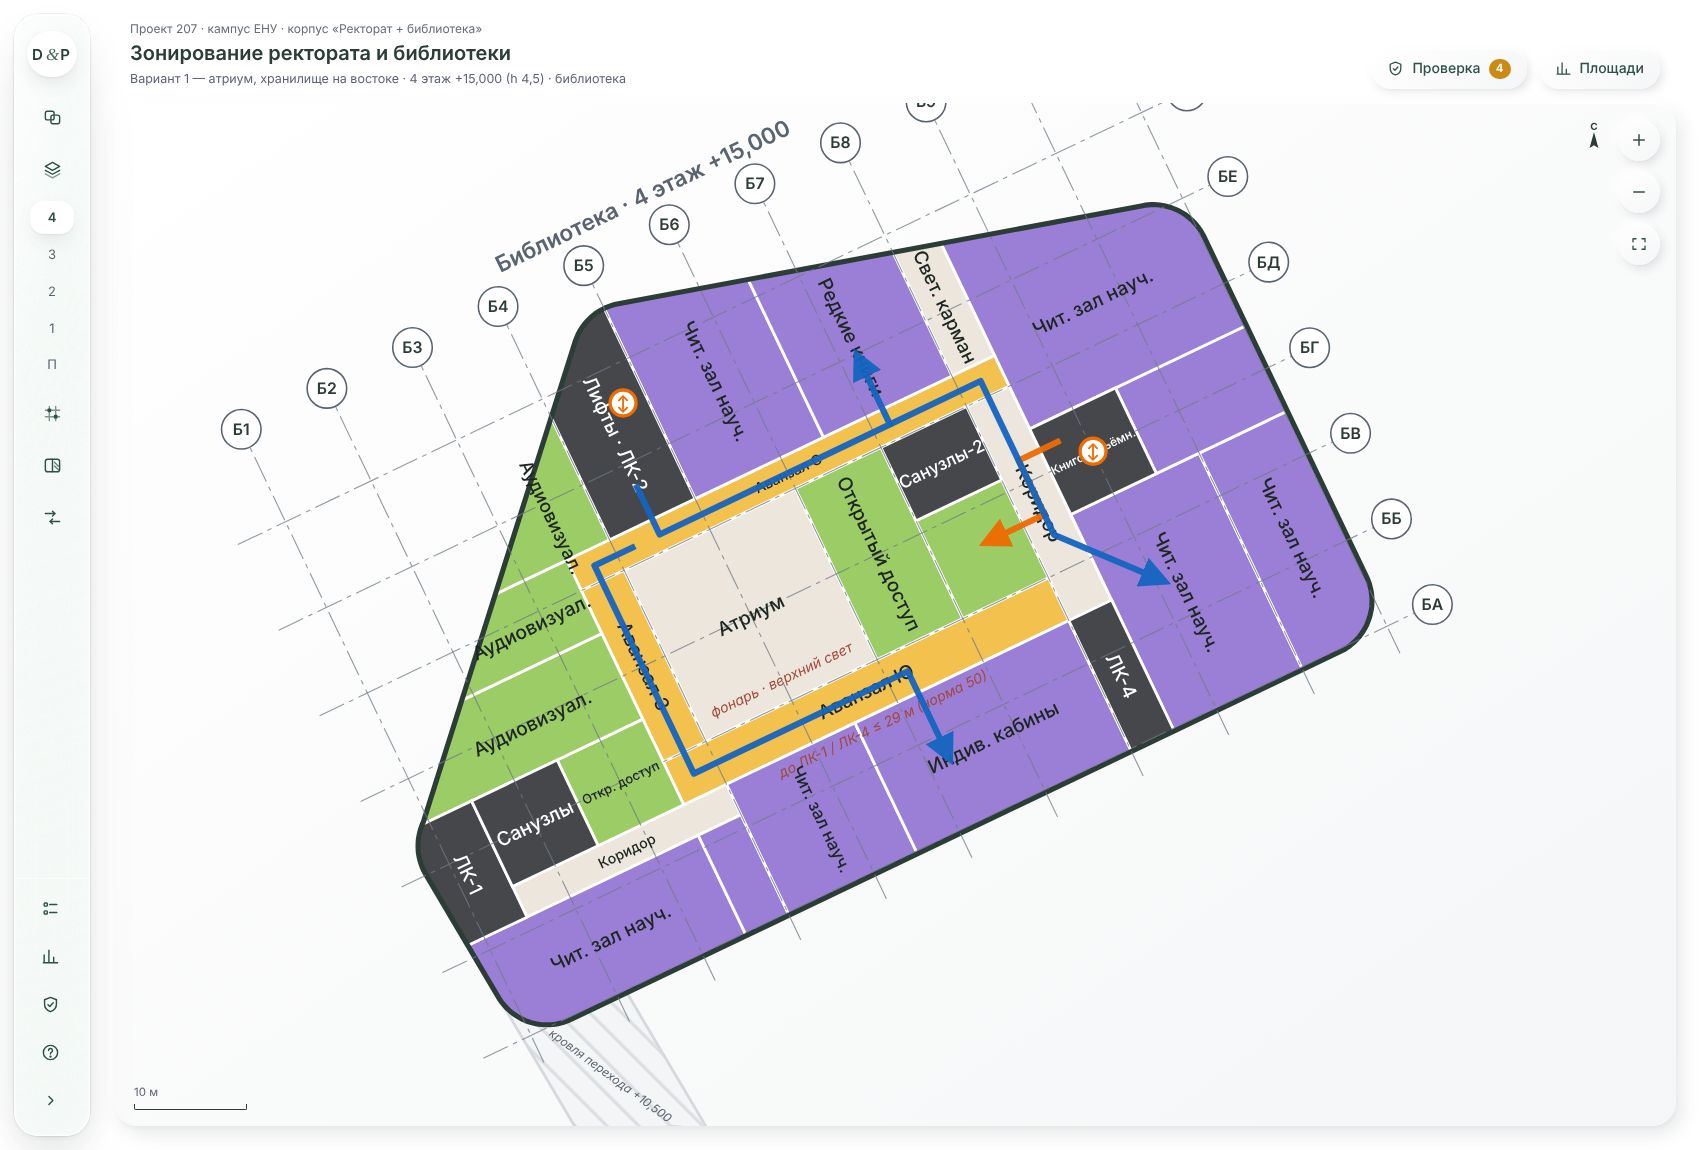
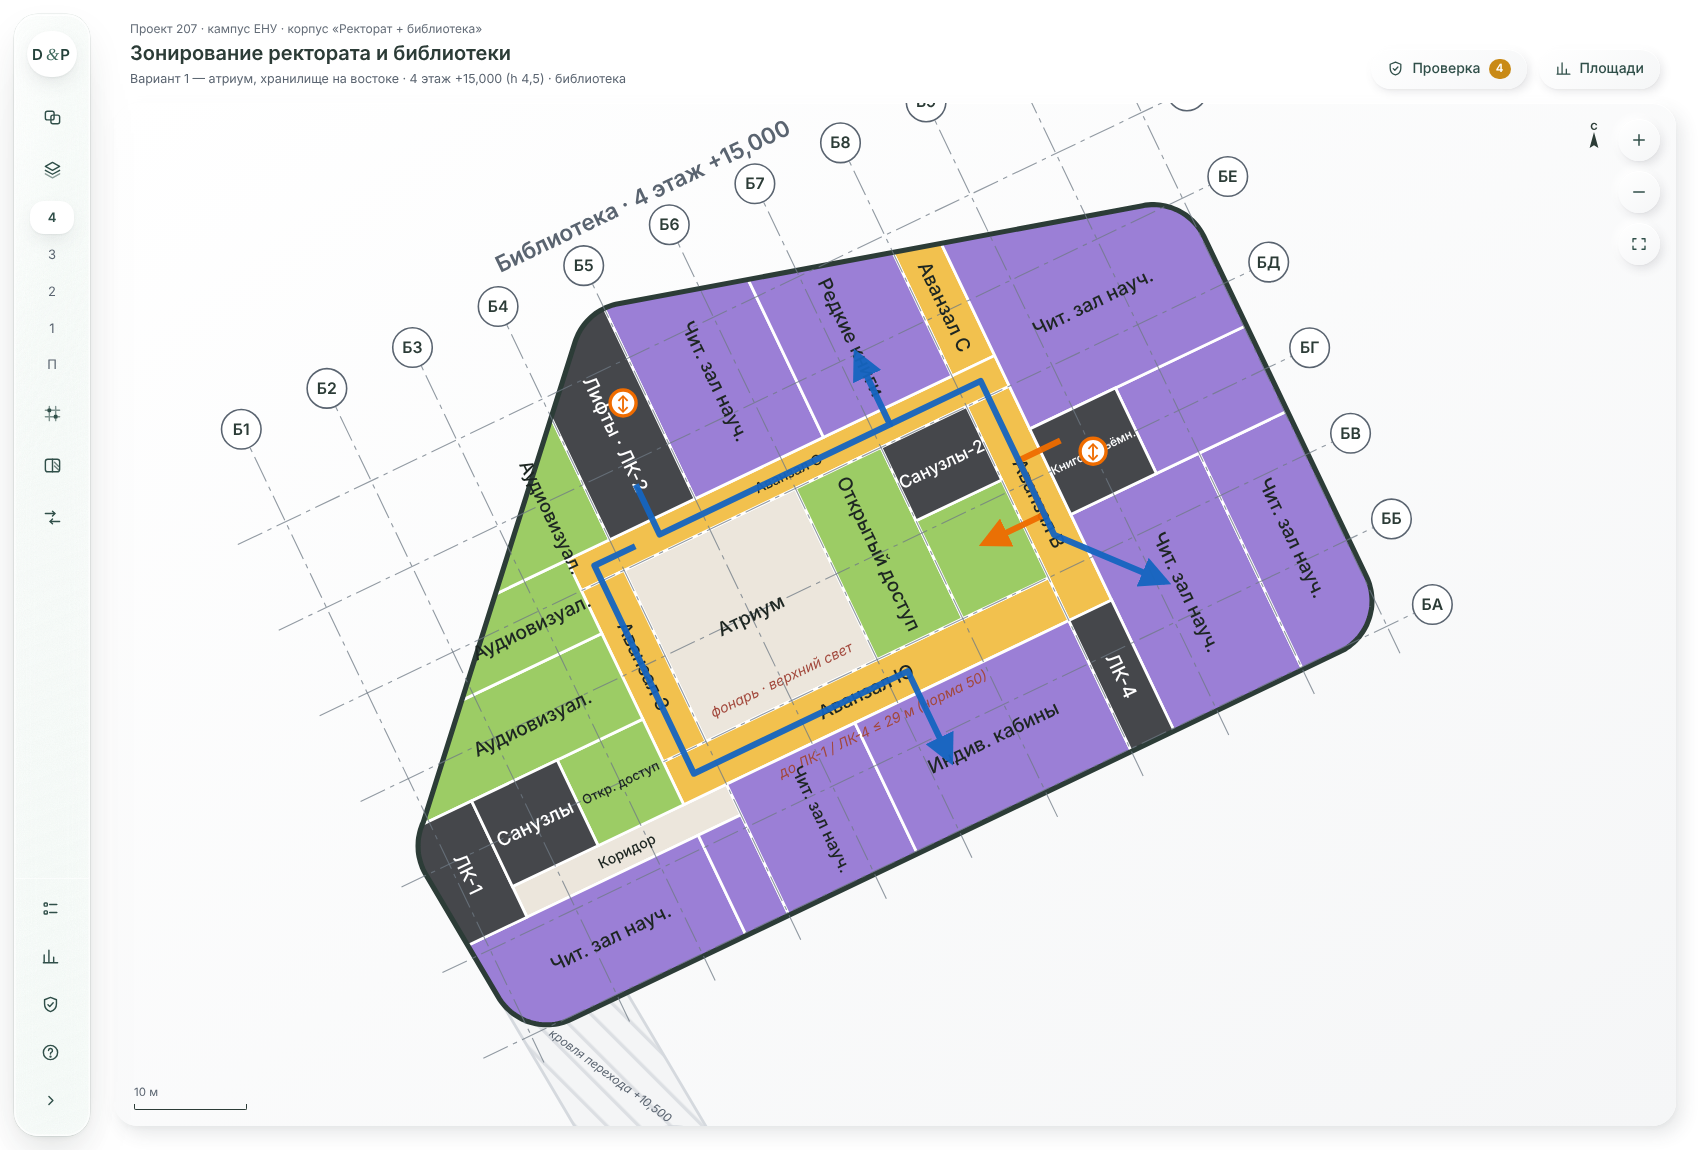
Библиотека: световой карман и восточный коридор 4 этажа — аванзалы
Claude-Session: https://claude.ai/code/session_01PBUMDRyqQNphWJTD6zJTqL

Changed region(s): [[0.53, 0.213, 0.6547, 0.5478]]

diff --git a/ADM_LIB_Zoning.html b/ADM_LIB_Zoning.html
@@ -416,9 +416,9 @@ for(const f of LF0){
       :"Сужена до 4,2 м (внутри ≈ 3,8 м — два марша по 1,6 м): ежедневно — служебная лестница (из служебного коридора на всех этажах, сотрудник не проходит через читательские зоны), при пожаре — эвакуационная для всех: дверь из южного аванзала открывается по ходу эвакуации (СН РК п. 5.3.2.2 — повседневные пути)."));
   COMMON.push(R("LIB",f,63,71.4,21,29.4,"core","blift","Книгоподъёмн.","Книгоподъёмники и грузовой лифт хранилища",
     "Вертикаль книг: подвал — приёмка (1 этаж) — хранение — пункты выдачи (п. 3.113); разделяет отсеки хранения."));
-  COMMON.push(R("LIB",f,58.8,63,12.6,33.6,"cor",f==="4"?"cor4":"svcor",f==="4"?"Коридор":"Служ. коридор",f==="4"?"Коридор восточных залов (на 4 этаже хранилища нет)":"Служебный коридор хранилища и тамбур ЛК-4",
-    f==="4"?"На 4 этаже хранилище заменено залами (решение архитектора) — коридор общедоступный, ведёт к восточным залам и ЛК-4."
-      :"Доступ в хранилище только отсюда (решение архитектора); на всех этажах связан с ЛК-4 (служебная вертикаль) и книгоподъёмниками."));
+  COMMON.push(R("LIB",f,58.8,63,12.6,33.6,f==="4"?"z1":"cor",f==="4"?"avan":"svcor",f==="4"?"Аванзал В":"Служ. коридор",f==="4"?"Восточный аванзал: выдача, вход в восточные залы":"Служебный коридор хранилища и тамбур ЛК-4",
+    f==="4"?"На 4 этаже хранилища нет — бывший служебный коридор стал аванзалом (решение архитектора): пункт выдачи у книгоподъёмников, входы в восточные залы, путь к ЛК-4."
+      :"Доступ в хранилище только отсюда (решение архитектора); на всех этажах связан с ЛК-4 (служебная вертикаль) и книгоподъёмниками.",f==="4"?{p:"avan"}:{}));
 }
 for(const f of LF){
   COMMON.push(R("LIB",f,4.2,12.6,12.6,21,"core","wc1","Санузлы","Санузлы (М, Ж, МГН, ПУИ, шлюз), тех. помещение и кроссовая",
@@ -430,8 +430,8 @@ for(const f of LF){
   COMMON.push(R("LIB",f,25.2,42,16.8,33.6,"cor","atrium",f==="1"?"Атриум":"Атриум","Атриум на 4 этажа с верхним светом",
     f==="1"?"Общедоступный холл под фонарём (решение архитектора: доступ всем, без лестницы); из него — вход в абонемент, с севера — стекло в зону за контролем. Аванзалы вдоль атриума — световой карман (п. 4.3.3.1)."
       :"Пустота атриума под фонарём; аванзалы вдоль него получают верхний свет — световой карман (п. 4.3.3.1). Отделён противопожарным остеклением: этаж ≤ 4 000 м² (табл. 1, II степень); противодымная вентиляция."));
-  COMMON.push(R("LIB",f,58.8,63,36.6,56,"cor","pocket",f==="1"?"Карман":"Свет. карман",f==="1"?"Проход к реставрации — световой карман галереи":"Световой карман северного аванзала (окно в северном фасаде)",
-    "Северный аванзал выведен к окну в северном фасаде: освещён с обоих концов — атриумом и окном (п. 4.3.3.1)."+(f==="1"?" Ведёт к реставрации.":f==="4"?" Ведёт и к северо-восточному залу.":"")));
+  COMMON.push(R("LIB",f,58.8,63,36.6,56,f==="1"?"cor":"z1",f==="1"?"pocket":"avan",f==="1"?"Карман":"Аванзал С",f==="1"?"Проход к реставрации — световой карман галереи":"Северный аванзал у окна — световой карман",
+    "Северный аванзал выведен к окну в северном фасаде: освещён с обоих концов — атриумом и окном (п. 4.3.3.1)."+(f==="1"?" Ведёт к реставрации.":f==="4"?" Ведёт и к северо-восточному залу.":""),f==="1"?{}:{p:"avan"}));
 }
 
 // ───────── ПОДВАЛ: половина — техника, половина — хранение ─────────

diff --git a/LIB_Zoning_REPORT.md b/LIB_Zoning_REPORT.md
@@ -32,7 +32,7 @@
 | **1** (h 6,0) | **До контроля:** вестибюль, гардероб, портфели, атриум, абонементы, лекционный зал на ≈ 180 мест. **Контроль** перед лифтами. **За контролем:** каталоги, СБО, МБА, копирование. **Служебная зона:** служебный вход, проход, обработка, служебный каталог, приёмка, кладовые, реставрация, компактное хранение (часть 1). |
 | **2** | Учебное отделение: 5 читальных залов, групповые, открытый доступ. Хранение: основное (южный отсек) и компактное (часть 2). Холл перехода (резерв). |
 | **3** | Учебное и научное отделения, групповые, открытый доступ. Основное хранение — оба отсека. |
-| **4** | Научное отделение: 7 залов, в том числе 3 новых на месте хранилища (В, ЮЮВ, С), кабины, зал редких книг, аудиовизуальные залы, открытый доступ. |
+| **4** | Восточный коридор и световой карман — **аванзалы** (хранилища на этаже нет), вход в восточные залы и выдача у книгоподъёмников. Научное отделение: 7 залов, в том числе 3 новых на месте хранилища (В, ЮЮВ, С), кабины, зал редких книг, аудиовизуальные залы, открытый доступ. |
 
 ## 3. Люди и эвакуация (II степень огнестойкости)
 
@@ -105,7 +105,7 @@
 | Лекционный зал (≈ 180 мест) | — | 256 | — | — | — | 256 |
 | Абонементы | — | 613 | — | — | — | 613 |
 | Каталоги и СБО | — | 398 | — | — | — | 398 |
-| Аванзалы | — | — | 355 | 355 | 355 | 1 066 |
+| Аванзалы (вкл. световой карман; на 4 этаже — и восточный) | — | — | 431 | 431 | 507 | 1 369 |
 | Читальные залы учебного отделения | — | — | 946 | 417 | — | 1 364 |
 | Кабинеты групповых занятий | — | — | 290 | 290 | — | 581 |
 | Читальные залы научного отделения | — | — | — | 660 | 1 782 | 2 442 |
@@ -116,7 +116,7 @@
 | Служебные и лаборатории (МБА, копирование, реставрация, служебный вход, обработка 78, служебный каталог 112, приёмка, кладовые, портфели) | — | 934 | — | — | — | 934 |
 | Техника | 1 460 | — | — | — | — | 1 460 |
 | Атриум | — | 282 | 282 | 282 | 282 | 1 129 |
-| Коридоры, холлы, служебный коридор, световой карман | 379 | 359 | 331 | 200 | 200 | 1 468 |
+| Коридоры, холлы, служебный коридор | 379 | 359 | 255 | 124 | 48 | 1 165 |
 | Лестничные клетки, лифты, книгоподъёмники | 329 | 329 | 329 | 329 | 329 | 1 647 |
 | Санузлы | — | 131 | 131 | 131 | 131 | 524 |
 | **Итого** | **3 836** | **3 836** | **3 836** | **3 836** | **3 836** | **19 180** |
@@ -126,7 +126,7 @@
 | Группа | Брутто | ≈ полезная ×0,88 | Норма | Разница |
 |---|---:|---:|---:|---:|
 | Абонемент | 613 | 540 | 678 | −138 |
-| Аванзал | 1 066 | 938 | 450 | +488 ¹ |
+| Аванзал | 1 369 | 1 205 | 450 | +755 ¹ |
 | Каталоги, СБО | 398 | 350 | 503 | −153 |
 | Читальные залы учебного отд. | 1 364 | 1 200 | 1 728 | −528 |
 | Групповые | 581 | 511 | 792 | −281 |
@@ -136,7 +136,7 @@
 | **Компактное хранение** | 585 | 515 | 450 | **+65** ² |
 | Открытый доступ | 877 | 772 | 1 800 | −1 028 |
 | Обработка и служебные | 934 | 822 | 1 259 | −437 |
-| **Итого табл. 26** | **12 316** | **≈ 10 840** | **14 012** | **≈ −3 170** |
+| **Итого табл. 26** | **12 619** | **≈ 11 105** | **14 012** | **≈ −2 910** |
 
 ¹ Аванзалы — это ещё и галереи вокруг атриума и пути эвакуации.
 ² Закрытое хранение вместе: 3 148 м² полезной площади при норме 3 202 — совпадает с нормой с точностью ≈ 2 %.
